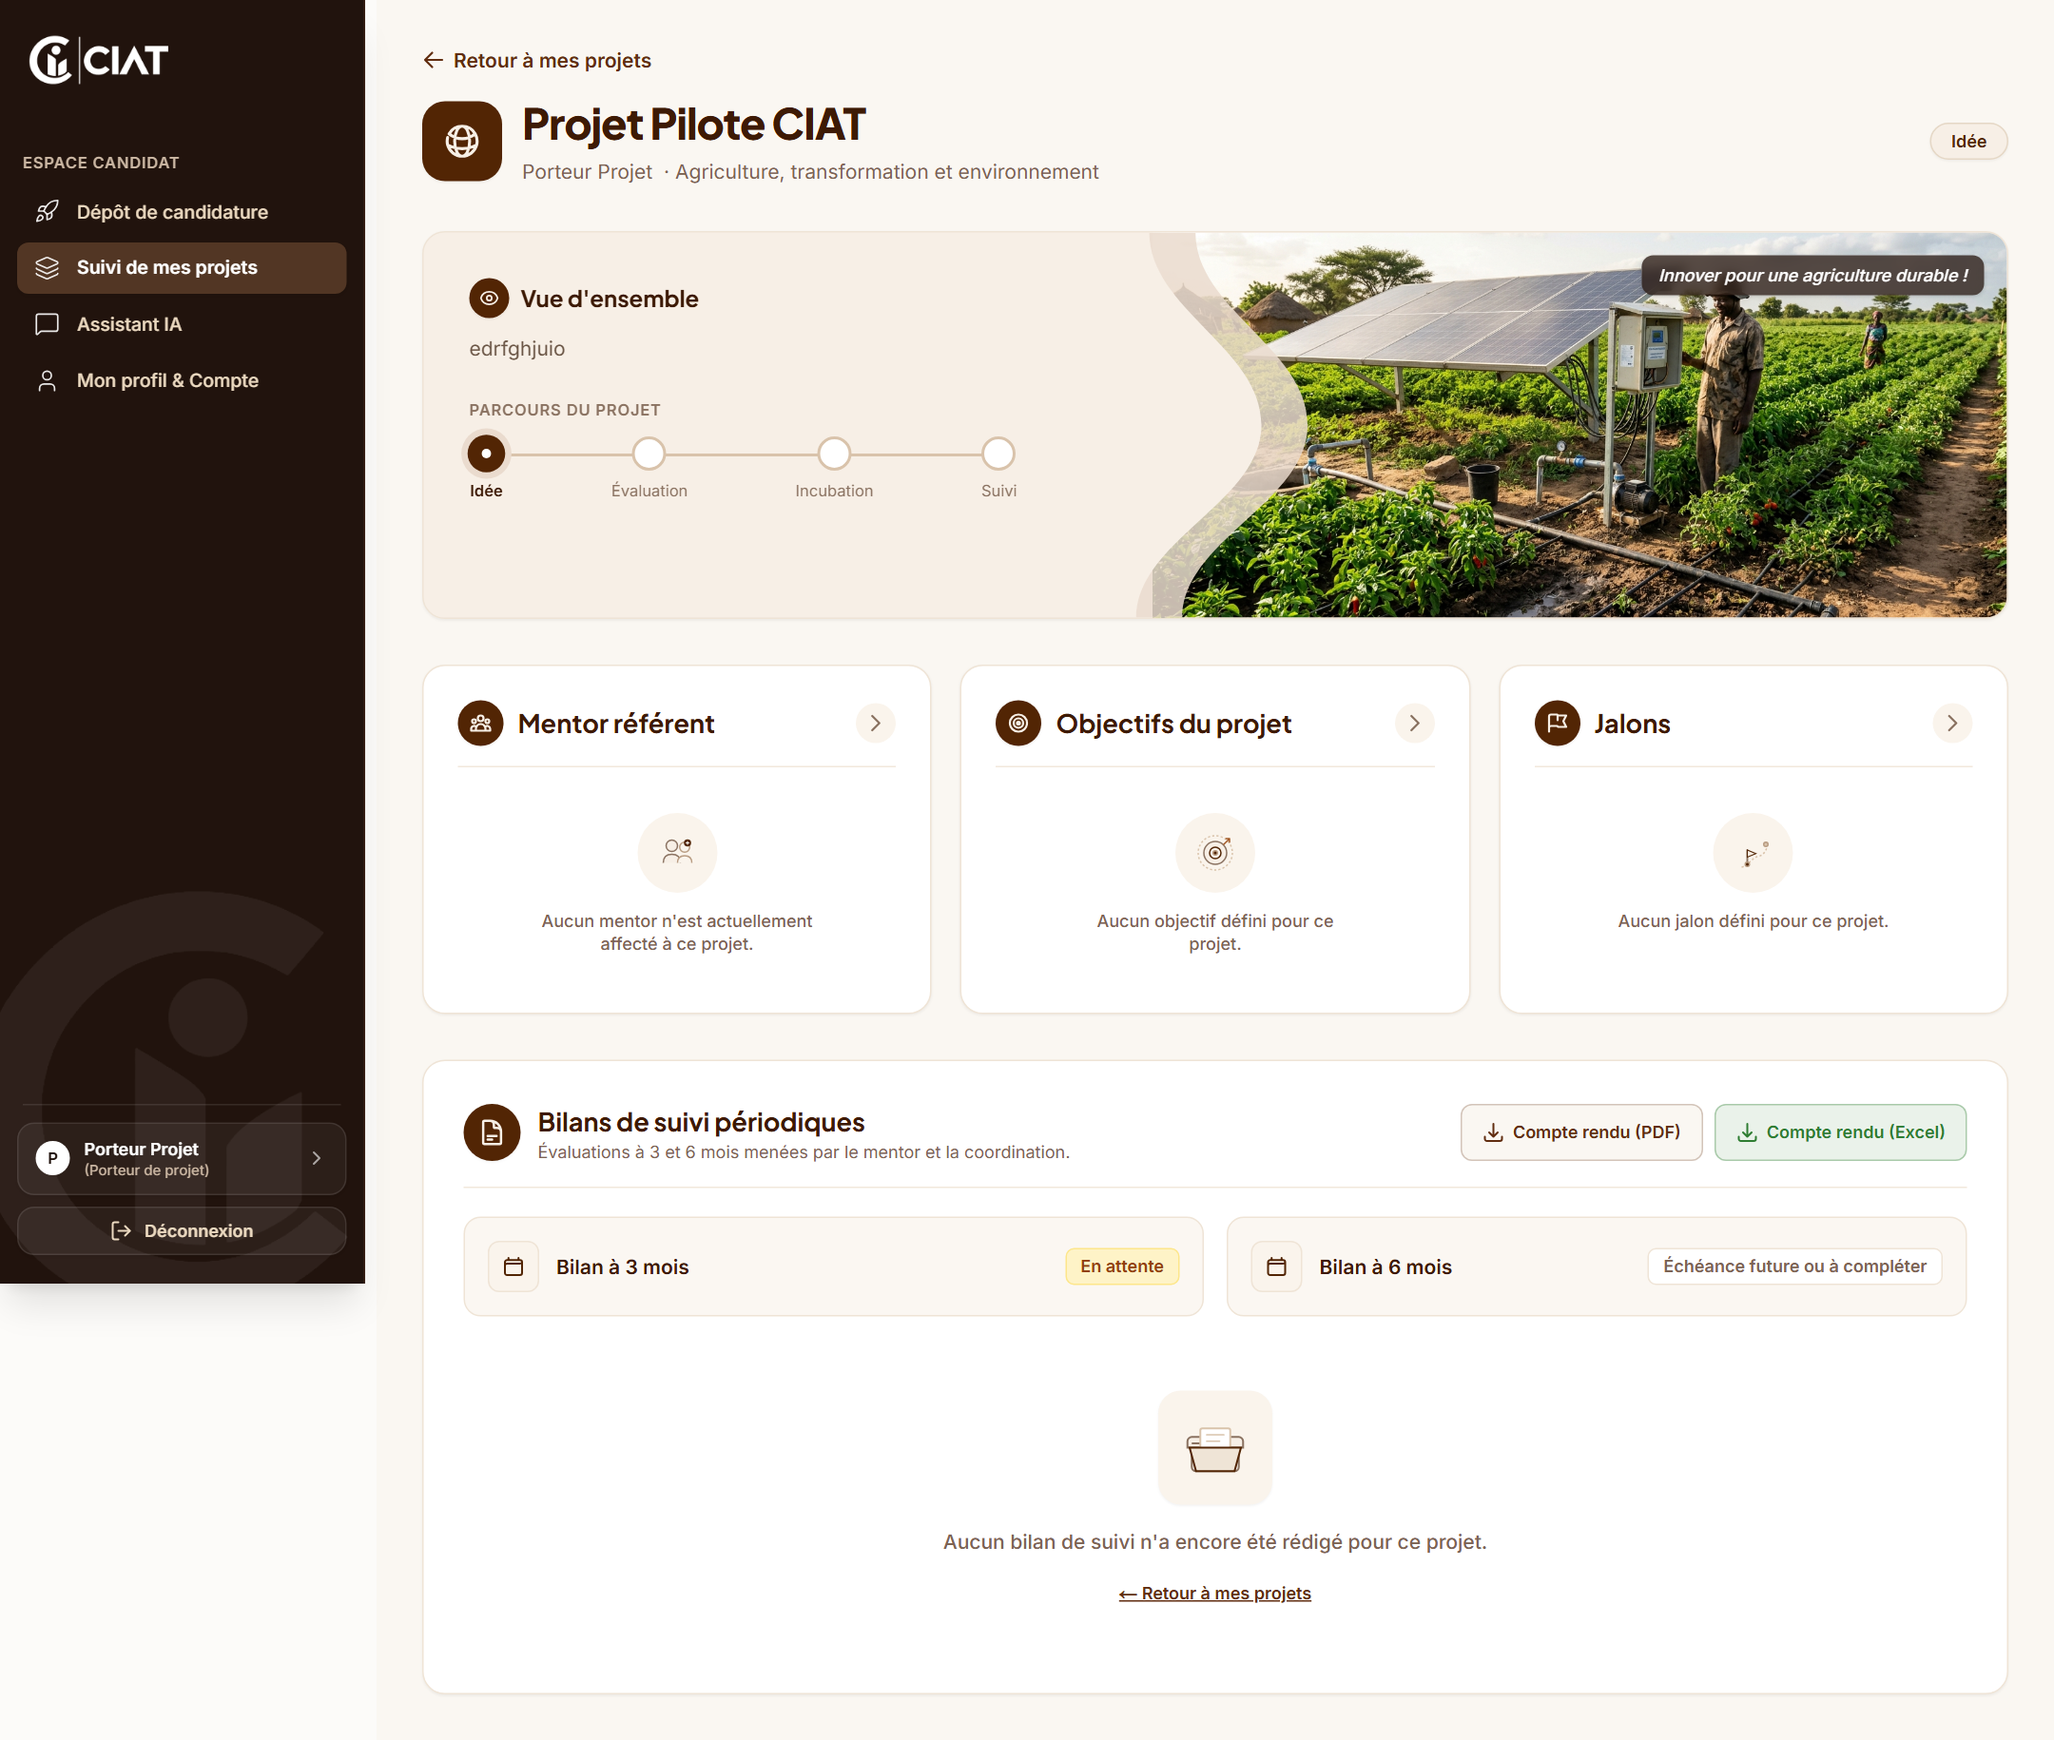
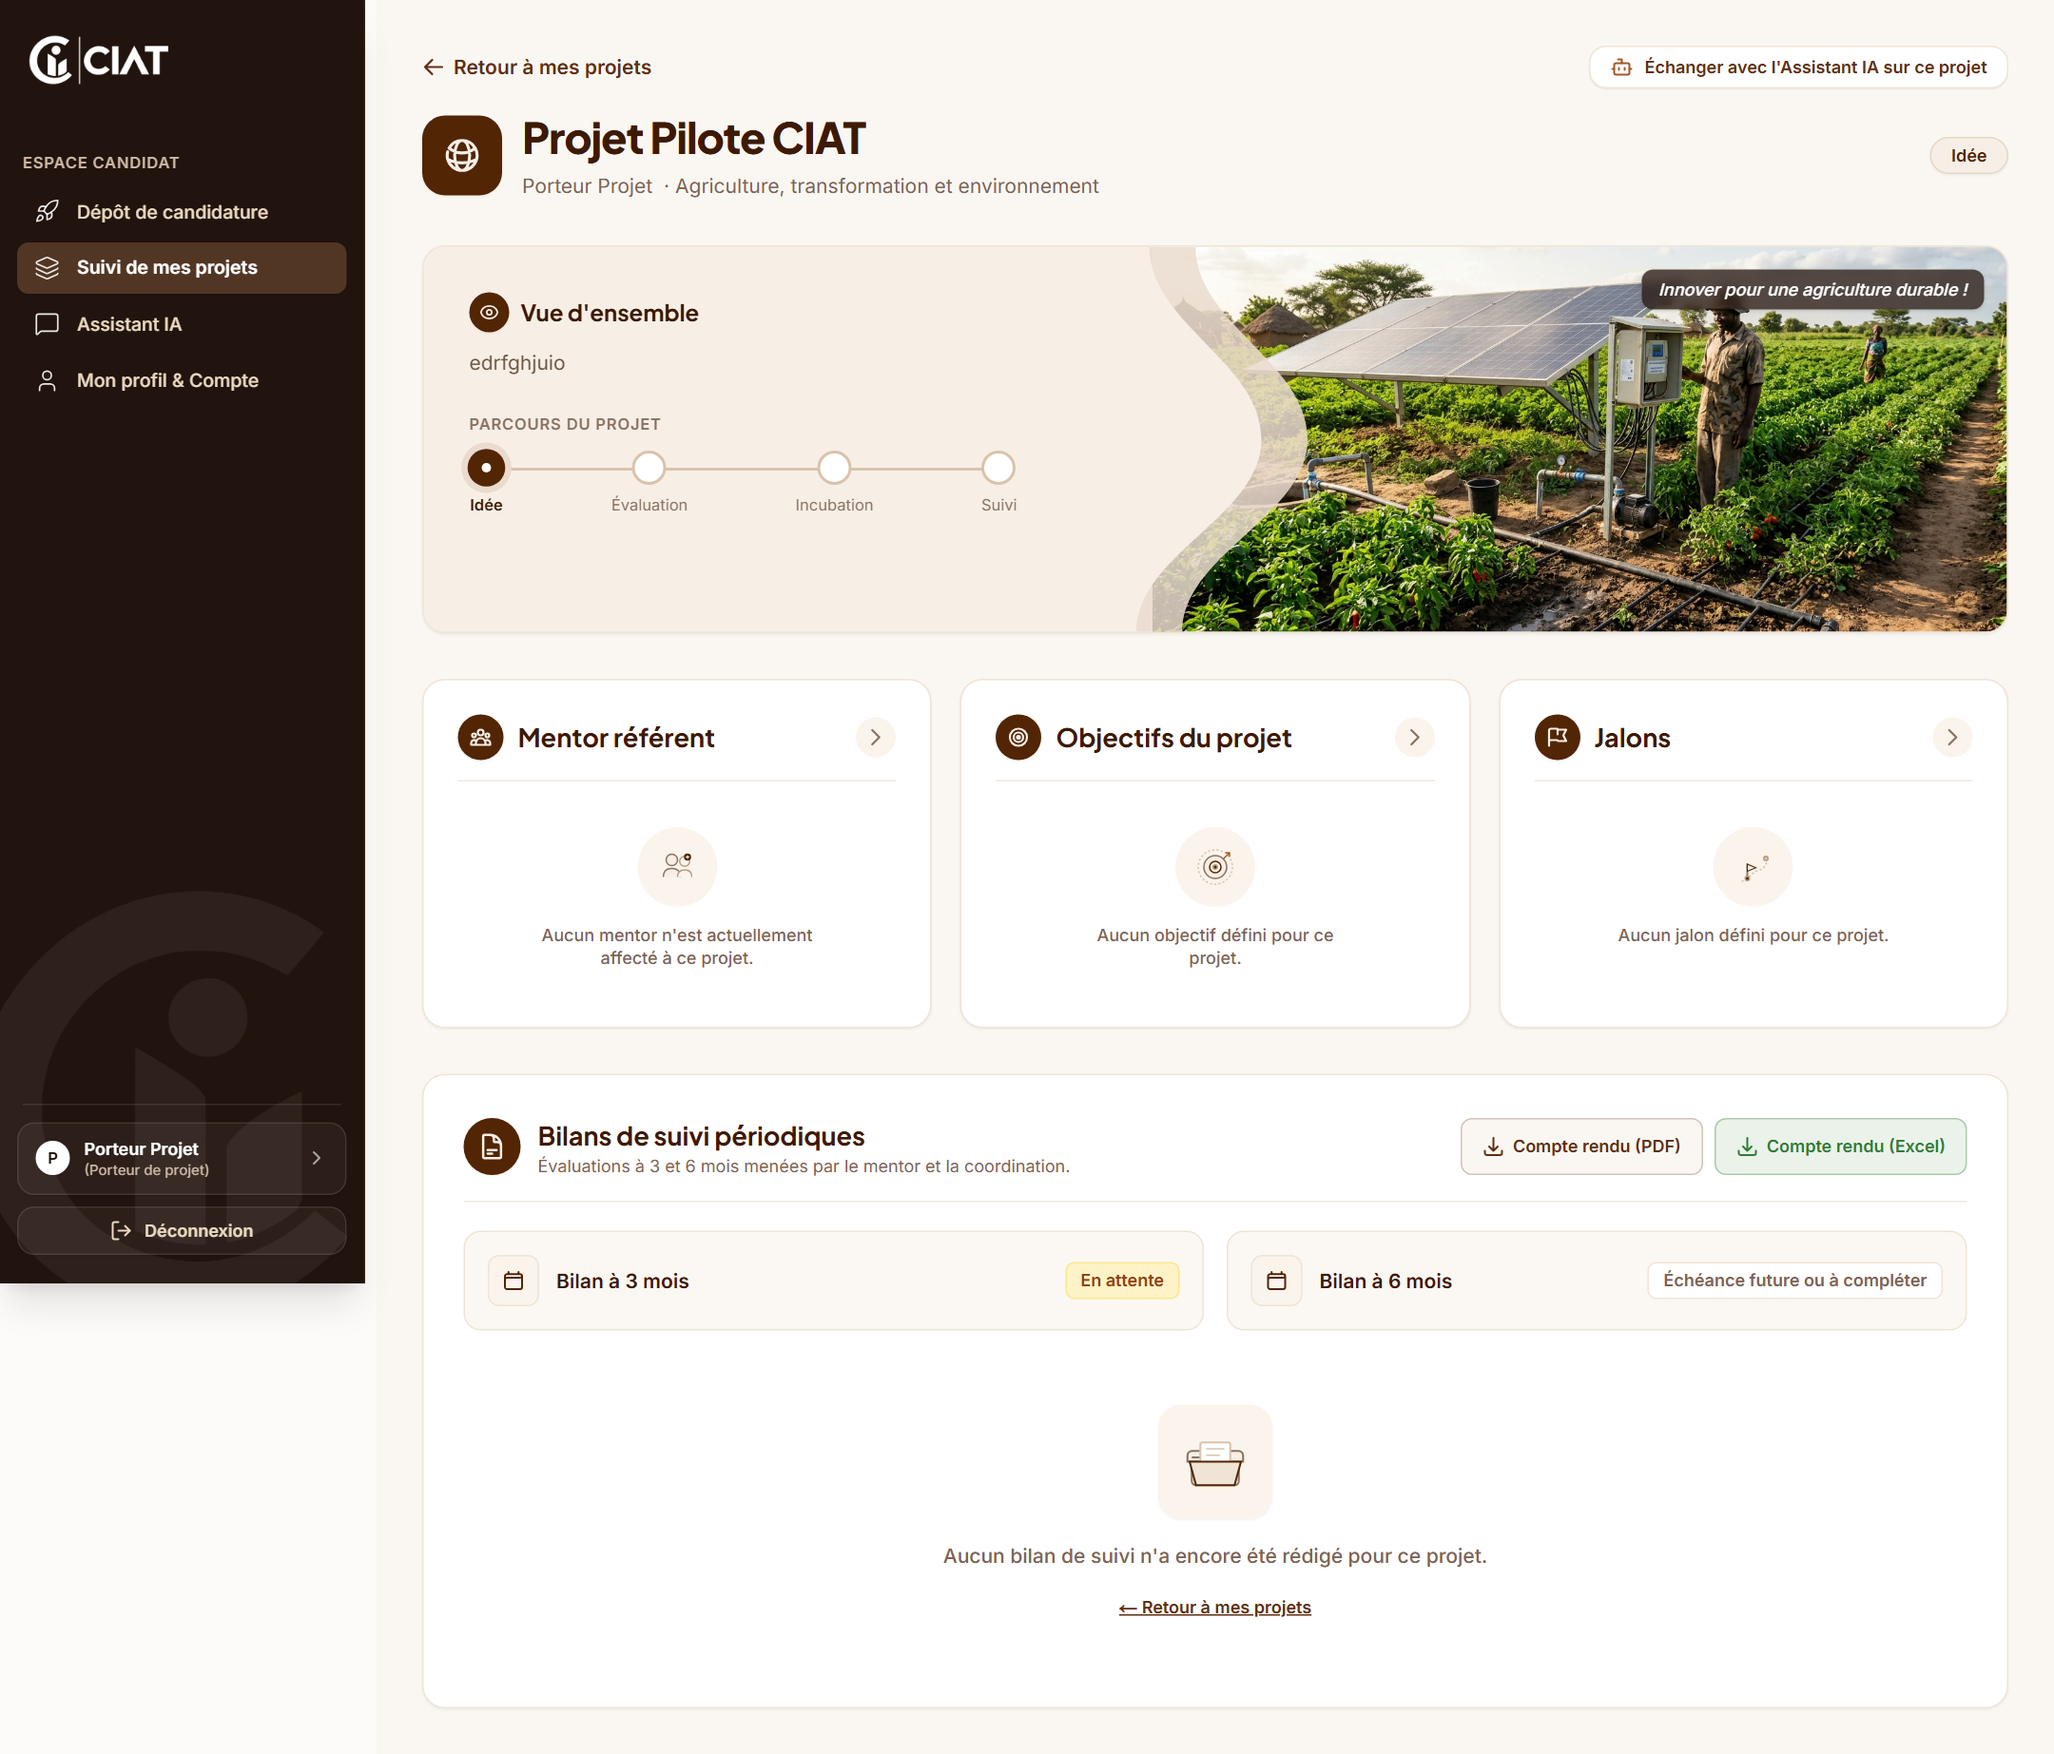
feat(navigation): implement full cross-page navigation and back links according to diagram

diff --git a/frontend/src/app/incubateur/projets/[id]/page.tsx b/frontend/src/app/incubateur/projets/[id]/page.tsx
@@ -22,6 +22,7 @@ import MentorBlock from "@/components/incubateur/suivi/MentorBlock";
 import ObjectifsBlock from "@/components/incubateur/suivi/ObjectifsBlock";
 import JalonsBlock from "@/components/incubateur/suivi/JalonsBlock";
 import BilansSuiviSection from "@/components/incubateur/suivi/BilansSuiviSection";
+import { Bot } from "lucide-react";
 
 interface ProjetSuivi {
   id: number;
@@ -157,17 +158,27 @@ function Suivi() {
 
   return (
     <div className="w-full max-w-7xl px-4 py-6 sm:px-6 sm:py-8 lg:px-8 space-y-6 sm:space-y-8">
-      {/* 1. LIEN RETOUR & EN-TÊTE PROJET */}
+      {/* 1. LIEN RETOUR & PASSERELLE ASSISTANT IA */}
       <div className="space-y-4">
-        <Link
-          href="/incubateur/projets"
-          className="inline-flex items-center gap-1.5 text-xs sm:text-sm font-semibold text-[#612D10] hover:text-[#3D1A04] transition-colors"
-        >
-          <svg className="h-4 w-4" fill="none" viewBox="0 0 24 24" stroke="currentColor" strokeWidth={2.2} aria-hidden>
-            <path strokeLinecap="round" strokeLinejoin="round" d="M10.5 19.5L3 12m0 0l7.5-7.5M3 12h18" />
-          </svg>
-          <span>Retour à mes projets</span>
-        </Link>
+        <div className="flex flex-col sm:flex-row sm:items-center sm:justify-between gap-3">
+          <Link
+            href="/incubateur/projets"
+            className="inline-flex items-center gap-1.5 text-xs sm:text-sm font-semibold text-[#612D10] hover:text-[#3D1A04] transition-colors"
+          >
+            <svg className="h-4 w-4" fill="none" viewBox="0 0 24 24" stroke="currentColor" strokeWidth={2.2} aria-hidden>
+              <path strokeLinecap="round" strokeLinejoin="round" d="M10.5 19.5L3 12m0 0l7.5-7.5M3 12h18" />
+            </svg>
+            <span>Retour à mes projets</span>
+          </Link>
+
+          <Link
+            href="/assistant"
+            className="inline-flex items-center gap-2 rounded-xl border border-[#EFE4D6] bg-white px-3.5 py-1.5 text-xs font-semibold text-[#612D10] shadow-2xs transition-all hover:border-[#C99A68] hover:bg-[#FAF7F2] w-fit"
+          >
+            <Bot className="h-4 w-4 text-[#A35926]" />
+            <span>Échanger avec l&apos;Assistant IA sur ce projet</span>
+          </Link>
+        </div>
 
         {loading ? (
           <div className="flex justify-center py-16" role="status" aria-label="Chargement">

diff --git a/frontend/src/components/incubateur/SummaryStep.tsx b/frontend/src/components/incubateur/SummaryStep.tsx
@@ -127,14 +127,21 @@ export default function SummaryStep({
         )}
 
         <div className="pt-4 flex flex-col justify-center gap-3 sm:flex-row">
+          <Link
+            href="/incubateur/projets"
+            className="inline-flex min-h-11 items-center justify-center gap-2 rounded-xl bg-[#612D10] px-6 text-xs sm:text-sm font-semibold text-white shadow-sm transition-all hover:bg-[#3F1D0A] hover:scale-[1.01]"
+          >
+            <span>Accéder au suivi de mes projets</span>
+            <ArrowRight className="h-4 w-4" />
+          </Link>
           <button
             type="button"
             onClick={handleTelechargerAccuse}
             disabled={downloadingAccuse}
-            className="inline-flex min-h-11 items-center justify-center gap-2 rounded-xl bg-[#612D10] px-6 text-xs sm:text-sm font-semibold text-white shadow-sm transition-all hover:bg-[#3F1D0A] hover:scale-[1.01] disabled:opacity-60"
+            className="inline-flex min-h-11 items-center justify-center gap-2 rounded-xl border border-[#612D10] bg-white px-6 text-xs sm:text-sm font-semibold text-[#612D10] transition-colors hover:bg-[#FAF7F2] disabled:opacity-60"
           >
             {downloadingAccuse ? (
-              <span className="h-4 w-4 animate-spin rounded-full border-2 border-white/40 border-t-white" />
+              <span className="h-4 w-4 animate-spin rounded-full border-2 border-[#612D10]/40 border-t-[#612D10]" />
             ) : (
               <Download className="h-4 w-4" aria-hidden="true" />
             )}
@@ -142,15 +149,9 @@ export default function SummaryStep({
           </button>
           <Link
             href="/compte"
-            className="inline-flex min-h-11 items-center justify-center rounded-xl border border-[#612D10] bg-white px-6 text-xs sm:text-sm font-semibold text-[#612D10] transition-colors hover:bg-[#FAF7F2]"
-          >
-            Voir mon compte
-          </Link>
-          <Link
-            href="/"
             className="inline-flex min-h-11 items-center justify-center rounded-xl border border-[#EFE4D6] bg-white px-6 text-xs sm:text-sm font-semibold text-[#6b5646] transition-colors hover:bg-[#FAF7F2]"
           >
-            Retour à l&apos;accueil
+            Voir mon compte
           </Link>
         </div>
       </div>

diff --git a/frontend/src/app/assistant/page.tsx b/frontend/src/app/assistant/page.tsx
@@ -1,6 +1,7 @@
 "use client";
 
 import { useEffect, useRef, useState, useTransition } from "react";
+import Link from "next/link";
 import { ProtectedRoute } from "@/components/ProtectedRoute";
 import { ApiErrorBanner, DemoBanner } from "@/components/ui";
 import {
@@ -14,6 +15,7 @@ import {
   type MessageAssistant,
 } from "@/lib/assistant-api";
 import {
+  ArrowLeft,
   BookOpen,
   ChevronDown,
   ChevronRight,
@@ -386,14 +388,24 @@ function AssistantApp() {
       <main className="flex flex-1 flex-col overflow-hidden bg-[#FAF7F2]">
         {/* Barre Supérieure du Chat */}
         <header className="flex h-16 shrink-0 items-center justify-between border-b border-[#EFE4D6] bg-white px-4 sm:px-6">
-          {/* Titre sans aucun bouton à gauche */}
-          <div className="min-w-0">
-            <h1 className="text-sm sm:text-base font-bold text-[#24140D] truncate">
-              Assistant IA du CIAT
-            </h1>
-            <p className="text-[11px] text-[#7A583A] truncate">
-              Des réponses sourcées ou un accompagnement pour structurer votre projet.
-            </p>
+          {/* Titre avec bouton retour vers le suivi des projets */}
+          <div className="flex items-center gap-3 min-w-0">
+            <Link
+              href="/incubateur/projets"
+              className="flex h-9 w-9 shrink-0 items-center justify-center rounded-xl border border-[#EFE4D6] bg-[#FAF7F2] text-[#612D10] hover:bg-[#F5EDE4] hover:border-[#C99A68] transition-colors shadow-2xs"
+              title="Retour à mes projets"
+              aria-label="Retour à mes projets"
+            >
+              <ArrowLeft className="h-4 w-4" />
+            </Link>
+            <div className="min-w-0">
+              <h1 className="text-sm sm:text-base font-bold text-[#24140D] truncate">
+                Assistant IA du CIAT
+              </h1>
+              <p className="text-[11px] text-[#7A583A] truncate">
+                Des réponses sourcées ou un accompagnement pour structurer votre projet.
+              </p>
+            </div>
           </div>
 
           {/* Contrôles à droite : Modes & Bouton Historique */}

diff --git a/frontend/src/app/incubateur/projets/page.tsx b/frontend/src/app/incubateur/projets/page.tsx
@@ -5,6 +5,7 @@ import Link from "next/link";
 import {
   ArrowRight,
   Bell,
+  Bot,
   Calendar,
   ChevronRight,
   FileText,
@@ -68,7 +69,13 @@ function ListeProjets() {
   return (
     <div className="w-full">
       <div className="mx-auto w-full max-w-7xl px-4 py-6 sm:px-6 sm:py-8 lg:px-8 space-y-6 sm:space-y-8">
-        
+        {/* Fil d'Ariane / Repère Espace Candidat */}
+        <div className="flex items-center gap-2 text-xs font-semibold text-[#8C6D4F]">
+          <span>Espace Candidat</span>
+          <span className="text-[#C99A68]/60">/</span>
+          <span className="text-[#612D10]">Suivi de mes projets</span>
+        </div>
+
         {/* 1. EN-TÊTE ÉPURÉ ET HARMONISÉ (Standard CIAT de l'espace porteur) */}
         <div className="flex flex-col gap-4 sm:flex-row sm:items-center sm:justify-between">
           <div className="space-y-1">
@@ -80,7 +87,14 @@ function ListeProjets() {
             </p>
           </div>
 
-          <div className="flex items-center gap-2.5">
+          <div className="flex items-center gap-2.5 flex-wrap">
+            <Link
+              href="/assistant"
+              className="inline-flex min-h-10 items-center gap-2 rounded-xl border border-[#EFE4D6] bg-white px-3.5 text-xs font-semibold text-[#612D10] shadow-2xs transition-all hover:border-[#C99A68] hover:bg-[#FAF7F2]"
+            >
+              <Bot className="h-4 w-4 text-[#A35926]" />
+              <span>Assistant IA</span>
+            </Link>
             {canEvaluate && (
               <Link
                 href="/incubateur/evaluation"

diff --git a/frontend/src/app/incubateur/page.tsx b/frontend/src/app/incubateur/page.tsx
@@ -17,7 +17,7 @@ import ProjectInfoStep, {
   type ProjectInfo,
 } from "@/components/incubateur/ProjectInfoStep";
 import SummaryStep from "@/components/incubateur/SummaryStep";
-import { ChevronDown, ChevronUp } from "lucide-react";
+import { ArrowLeft, ChevronDown, ChevronUp } from "lucide-react";
 
 interface ProjetApi extends ProjectInfo {
   id: number;
@@ -164,6 +164,17 @@ function DepotDossier() {
   return (
     <div className="w-full">
       <div className="mx-auto w-full max-w-7xl px-4 py-6 sm:px-6 sm:py-8 lg:px-8 space-y-6 sm:space-y-8">
+        {/* Lien de retour fluide vers le suivi des projets */}
+        <div>
+          <Link
+            href="/incubateur/projets"
+            className="inline-flex items-center gap-1.5 text-xs sm:text-sm font-semibold text-[#612D10] hover:text-[#3D1A04] transition-colors"
+          >
+            <ArrowLeft className="h-4 w-4" />
+            <span>Retour au suivi de mes projets</span>
+          </Link>
+        </div>
+
         {/* 1. HERO BANNER EN CARTE INTÉGRÉE (Harmonisée avec /incubateur/projets et /compte) */}
         <div className="relative overflow-hidden rounded-2xl border border-[#3d2315] bg-[#1F130B] shadow-sm">
           {/* Photo panoramique de fond — 100% nette et contrastée, sans voile blanc */}

diff --git a/frontend/src/app/incubateur/alertes/page.tsx b/frontend/src/app/incubateur/alertes/page.tsx
@@ -7,6 +7,7 @@ import { ProtectedRoute } from "@/components/ProtectedRoute";
 import { ApiErrorBanner } from "@/components/ui";
 import { formatDateFr, getAlertes, suiviErrorMessage, type AlerteJalon, JALON_STATUTS } from "@/lib/incubator";
 import {
+  ArrowLeft,
   Calendar,
   Clock,
   ChevronRight,
@@ -107,6 +108,17 @@ function Alertes() {
   return (
     <div className="w-full">
       <div className="mx-auto w-full max-w-7xl px-4 py-6 sm:px-6 sm:py-8 lg:px-8 space-y-6 sm:space-y-8">
+        {/* Lien de retour fluide vers le suivi des projets */}
+        <div>
+          <Link
+            href="/incubateur/projets"
+            className="inline-flex items-center gap-1.5 text-xs sm:text-sm font-semibold text-[#612D10] hover:text-[#3D1A04] transition-colors"
+          >
+            <ArrowLeft className="h-4 w-4" />
+            <span>Retour à mes projets</span>
+          </Link>
+        </div>
+
         {/* 1. EN-TÊTE ÉDITORIAL SOBRE ET ALIGNÉ À GAUCHE (Sans boutons d'onglets ni icône superflue) */}
         <div className="space-y-1.5">
           <h1 className="font-[family-name:var(--font-title)] text-2xl font-extrabold tracking-tight text-[#24140D] sm:text-3xl">

diff --git a/frontend/src/app/compte/page.tsx b/frontend/src/app/compte/page.tsx
@@ -3,6 +3,7 @@
 import { useEffect, useState, type FormEvent } from "react";
 import Link from "next/link";
 import {
+  ArrowLeft,
   Bell,
   Check,
   ChevronRight,
@@ -148,6 +149,16 @@ function ProfilSection({ user }: { user: User }) {
 
   return (
     <div className="space-y-6">
+      {/* Lien de retour fluide vers le suivi des projets */}
+      <div>
+        <Link
+          href="/incubateur/projets"
+          className="inline-flex items-center gap-1.5 text-xs sm:text-sm font-semibold text-[#612D10] hover:text-[#3D1A04] transition-colors"
+        >
+          <ArrowLeft className="h-4 w-4" />
+          <span>Retour au suivi de mes projets</span>
+        </Link>
+      </div>
       
       {/* 1. BANNIÈRE RÉSUMÉ DU PROFIL (Fidèle au design sans la lampe) */}
       <div className="relative overflow-hidden rounded-2xl border border-[#EFE4D6] bg-white p-6 sm:p-7 shadow-sm">
